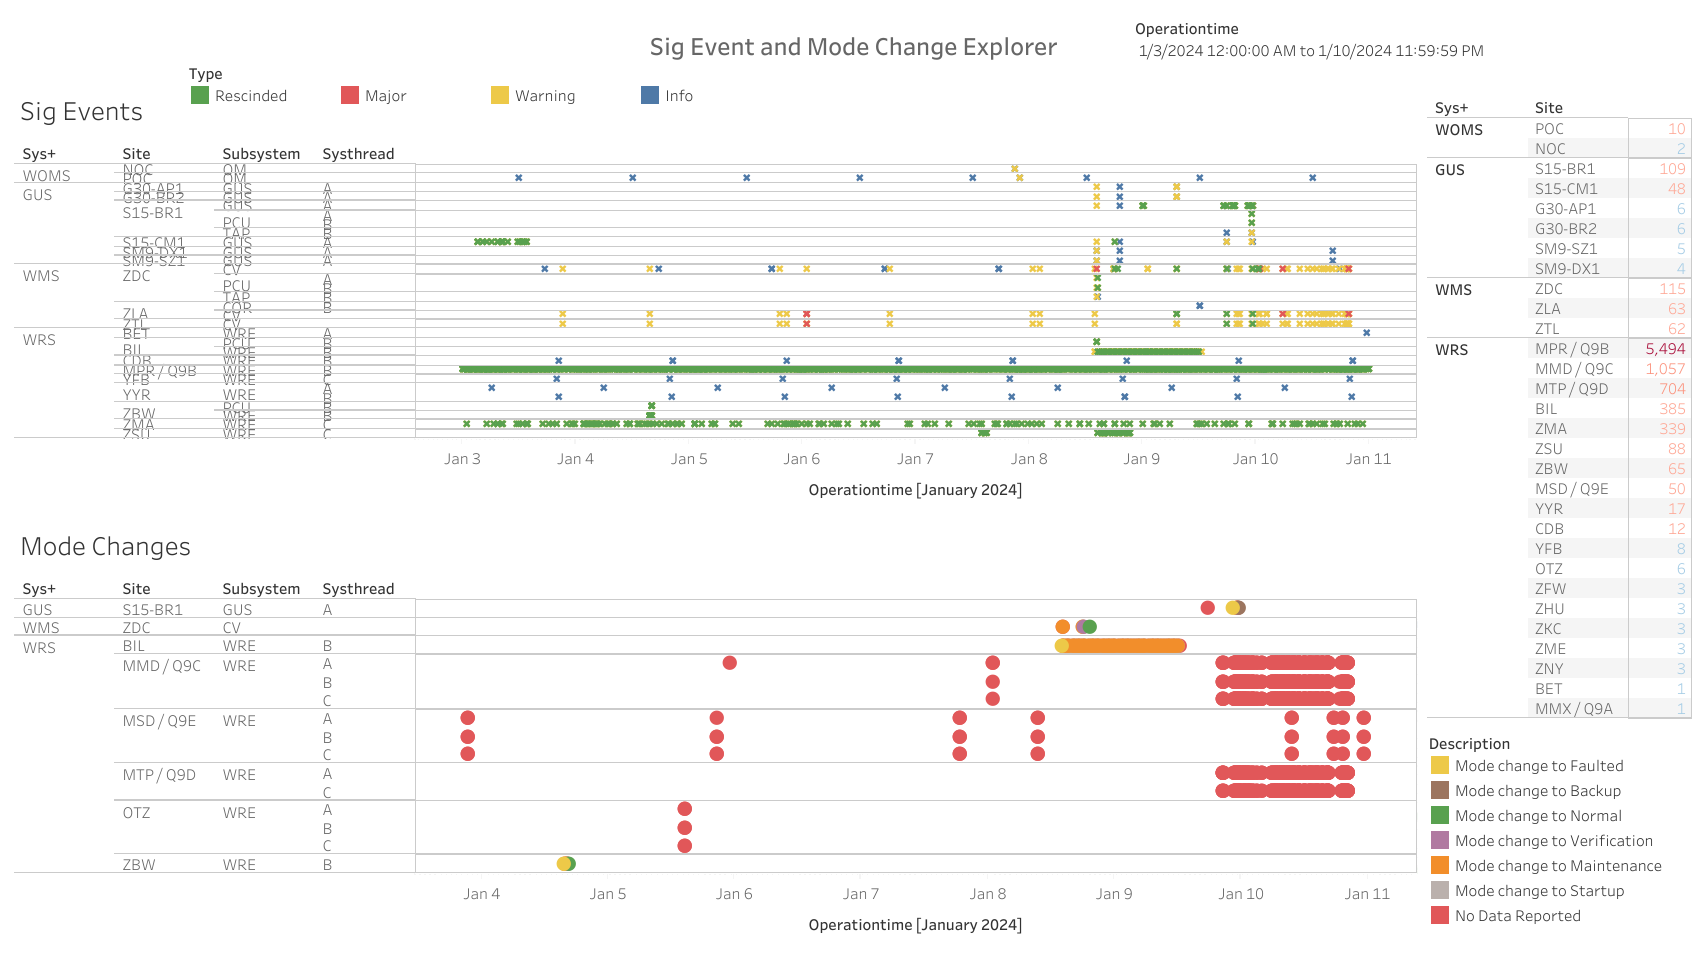
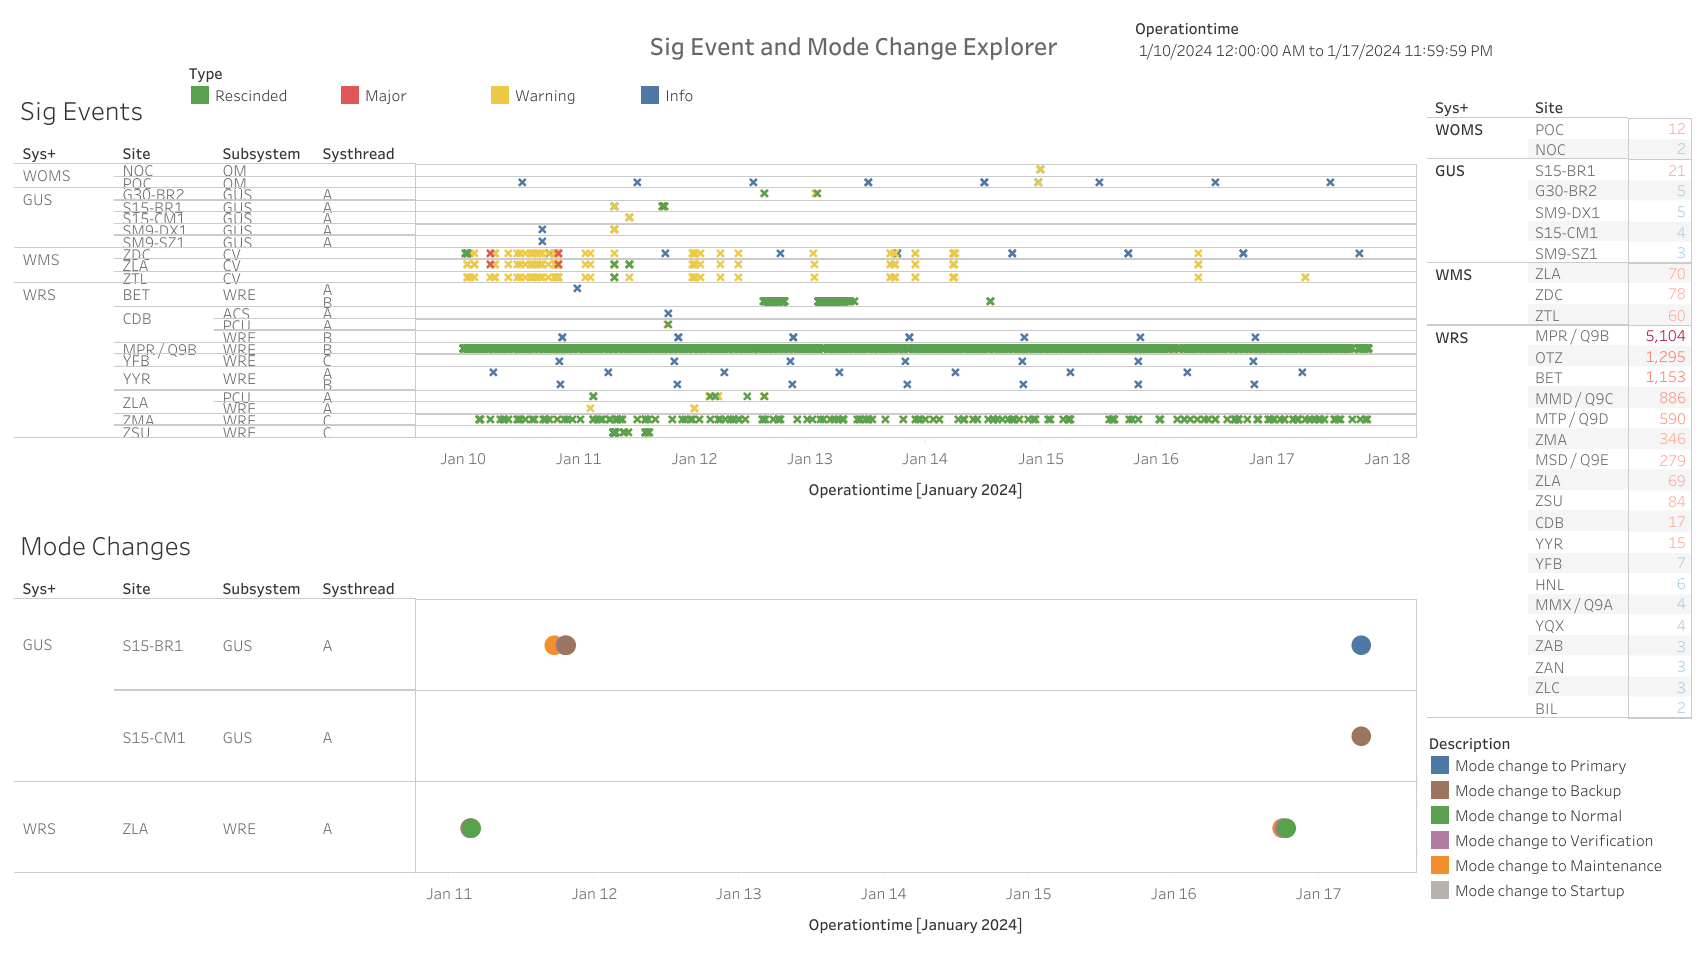
added different version (still working OG sysmon graphic)

diff --git a/sysmon/index_2.html b/sysmon/index_2.html
@@ -347,20 +347,49 @@
                         </div>
 
                         <div class="carousel-item">
-                              <img src="img/w1/Sig Event and Mode Change Explorer.png" class="img-fluid bg"
-                                    alt="Sig Event / Mode Change Explorer">
-                              <h4 class="text-center">Major Events</h4>
-
-
-                        </div>
-                        <div class="carousel-item ">
-                              <img src="img/w1/I_F Down Dashboard.png" class="img-fluid bg" alt="I/F Down Dashboard">
-                              <h4 class="text-center">Comm Events</h4>
+                              <img src="img/w1_new/1_Mode Changes.png" class="img-fluid bg"
+                                    alt="Mode Changes">
 
 
                         </div>
                         <div class="carousel-item">
-                              <img src="img/w1/SV Alerts Table.png" class="img-fluid mx-auto d-block"
+                              <img src="img/w1_new/2_Sig Events - All.png" class="img-fluid bg"
+                                    alt="Sig Events - Overview">
+
+
+                        </div>
+                        <div class="carousel-item">
+                              <img src="img/w1_new/3_Sig Events - WOMS.png" class="img-fluid bg"
+                                    alt="Sig Events - WOMS">
+
+
+                        </div>
+                        <div class="carousel-item">
+                              <img src="img/w1_new/4_Sig Events - GUS.png" class="img-fluid bg"
+                                    alt="Sig Events - GUS">
+
+
+                        </div>
+                        <div class="carousel-item">
+                              <img src="img/w1_new/5_Sig Events - WMS.png" class="img-fluid bg"
+                                    alt="Sig Events - WMS">
+
+
+                        </div>
+                        <div class="carousel-item">
+                              <img src="img/w1_new/6_Sig Events - WRS.png" class="img-fluid bg"
+                                    alt="Sig Events - WRS">
+
+
+                        </div>
+                        <div class="carousel-item ">
+                              <img src="img/w1_new/I_F Down Dashboard.png" class="img-fluid bg" alt="I/F Down Dashboard">
+
+
+                        </div>
+
+                        <div class="carousel-item">
+                              <img src="img/w1_new/SV Alerts Table.png" class="img-fluid mx-auto d-block"
                                     alt="SV Not Mon alerts">
                               <!-- <h2 class="mt-lg-5 mb-lg-5 mx-auto display-2 text-center h-100">No SV Not Mon Data from
                                     Alert Explorer</h2> -->
